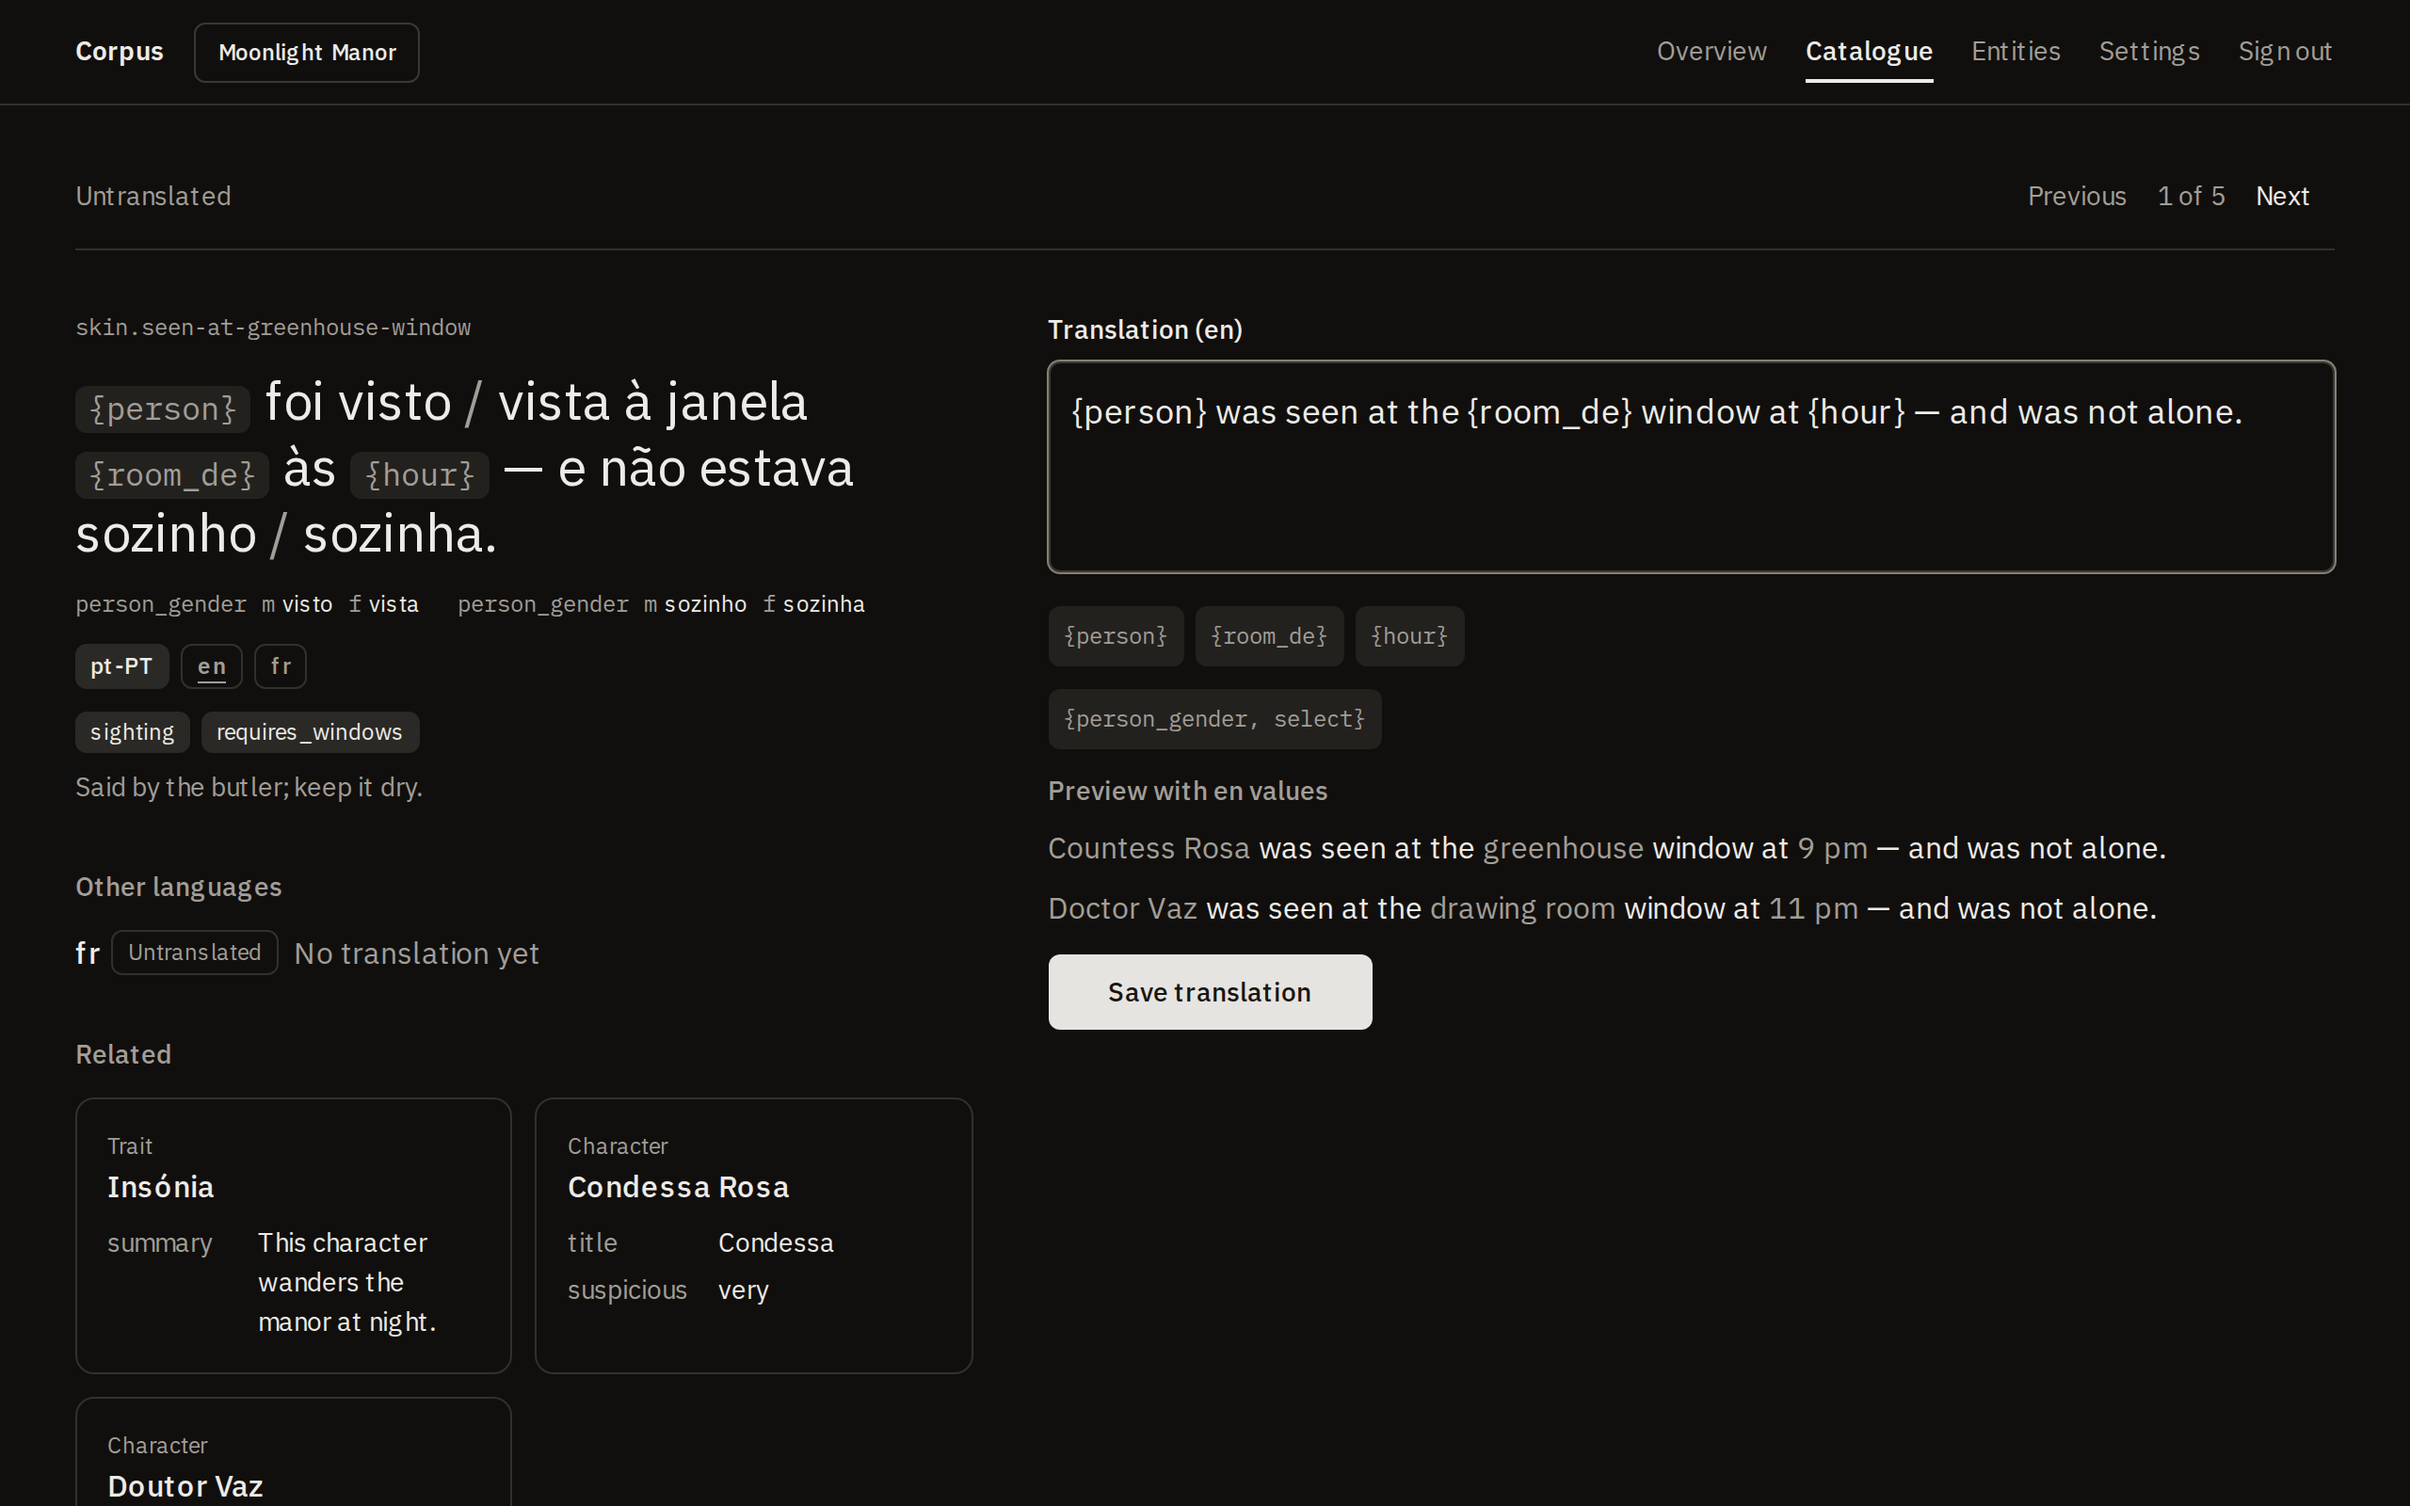
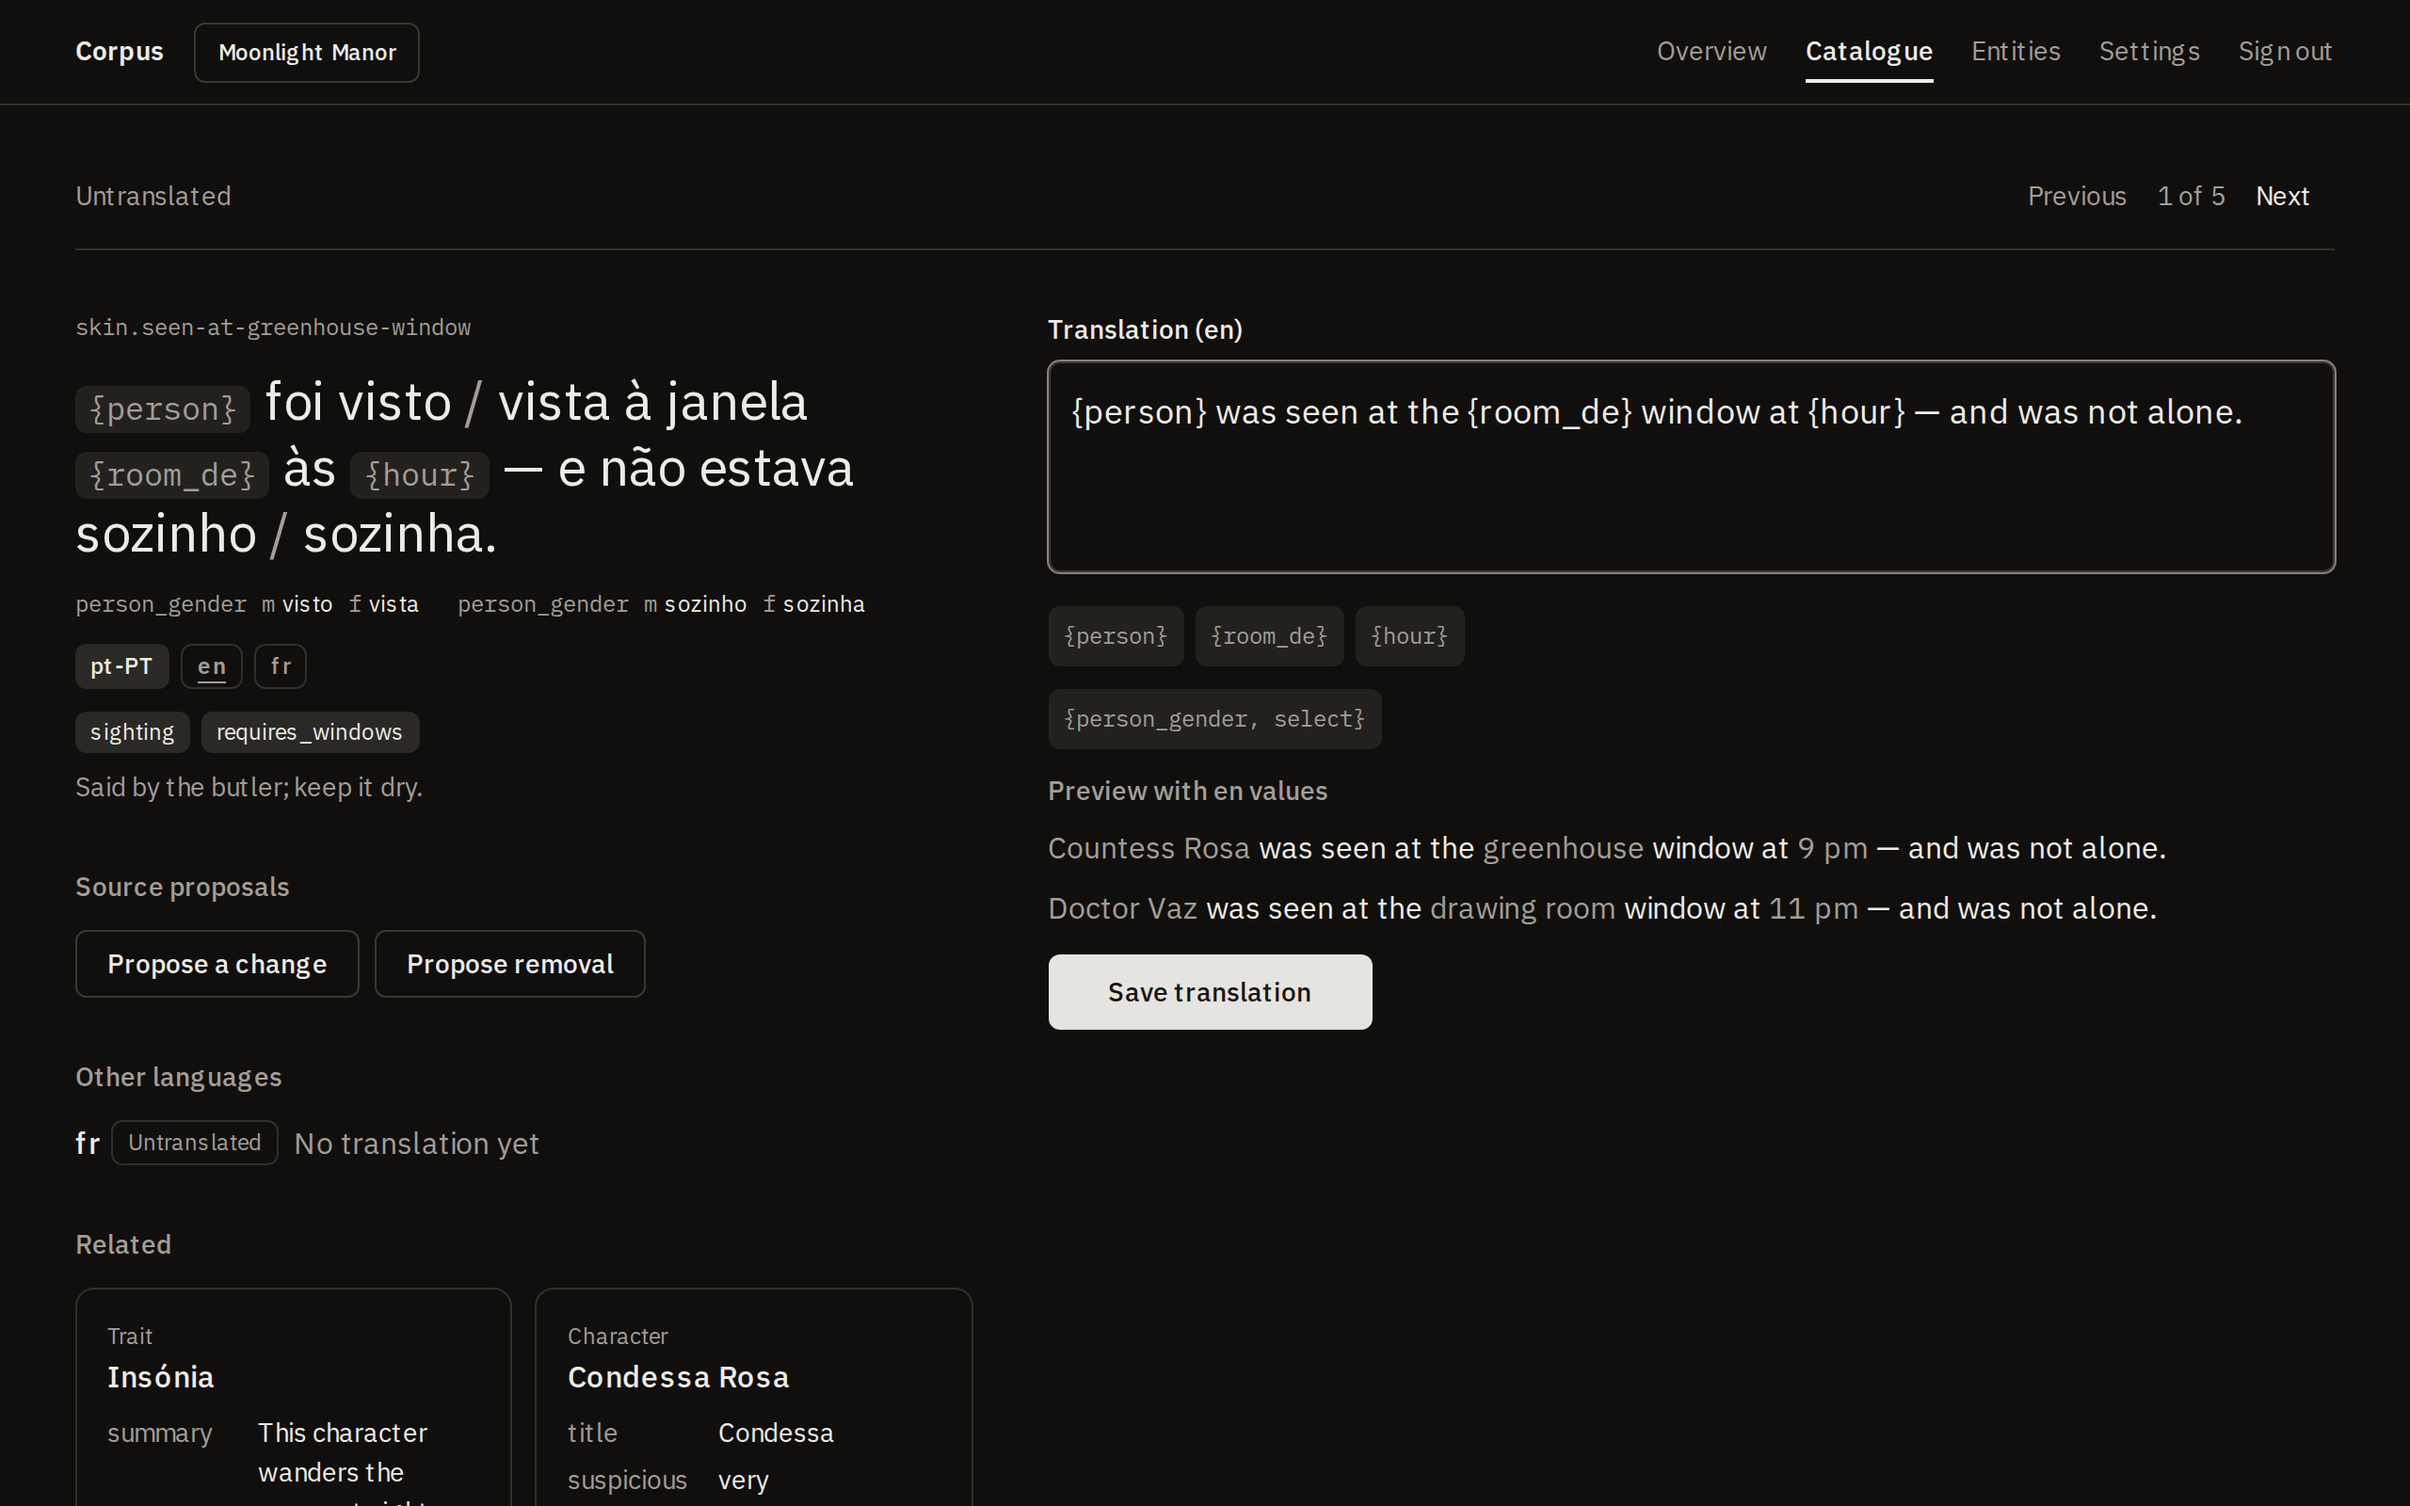
M11 s6: README on managing strings, screenshots with a proposal, 0.7.0
The README says what proposals are and how they reach the repository;
the screenshot fixture proposes a change on a chrome string and
captures the string page with it pending and the add form; CHANGELOG
0.7.0; both packages and the lockfile bumped.

diff --git a/apps/web/e2e/screenshots.ts b/apps/web/e2e/screenshots.ts
@@ -179,6 +179,19 @@ async function main(): Promise<void> {
   await shot("editor");
   await page.goto(`${corpus}/settings`, { waitUntil: "networkidle" });
   await shot("settings");
+  // A source proposal (§9.3, §11): propose a change on a chrome string,
+  // then capture the string page with it pending, and the add form.
+  await page.goto(chromeString("queue.stale", "language=pt-PT"));
+  await page.getByRole("button", { name: "Propose a change" }).click();
+  await page.getByLabel("Proposed source text").fill("Out of date");
+  await page.getByRole("button", { name: "Propose", exact: true }).click();
+  await page.waitForURL(/proposed=1/);
+  await page.goto(chromeString("queue.stale", "language=pt-PT"), {
+    waitUntil: "networkidle",
+  });
+  await shot("proposal");
+  await page.goto(`${corpus}/strings/new`, { waitUntil: "networkidle" });
+  await shot("new-string");
 
   // Structured text: the Moonlight Manor fixture, for selects, entities,
   // and previews the chrome catalog does not have.

diff --git a/CHANGELOG.md b/CHANGELOG.md
@@ -7,6 +7,17 @@ contract (`corpus/1`) is the only one.
 
 ## [Unreleased]
 
+## [0.7.0] - 2026-09-15
+
+Corpus proposes source strings.
+
+### Added
+
+- Anyone on the instance may propose a change to a string's source text, its removal, or a new string into a catalogue chosen among the sources push declared (§9, §11). A proposal is pending until `corpus pull` writes it into the source file and the next `corpus push` sees the repository agreeing; a push that moved on, or archived the string, marks it superseded. One proposal per string or key; a newer one replaces the older, and every outcome reads in the string's history.
+- `corpus pull` writes pending proposals into the source-language files through the adapters, format preserved, and removes a deleted key from the source's target files too; `--check` counts them; `corpus status` shows the pending count. A pull with no pending proposals never writes a source file.
+- The snapshot carries each entry's `file` and the writable `sources`; the pull payload carries `sourceChanges`. All optional; the contract stays `corpus/1`.
+- Strings from `exec` sources, or from `.ts`/`.js` catalogues pull cannot write, refuse proposals with a reason.
+
 ## [0.6.0] - 2026-09-07
 
 The editor speaks the target language.
@@ -108,7 +119,8 @@ The first published version.
 - The `messages`, `table` and `exec` adapters, and the `corpus/1` snapshot contract with its ICU subset (placeholders and `select`).
 - The package ships plain JavaScript for Node 22 with type declarations; a client's config imports `defineCorpus` from `@corpus-tool/cli`.
 
-[Unreleased]: https://github.com/miguelaguiar01/corpus/compare/v0.6.0...HEAD
+[Unreleased]: https://github.com/miguelaguiar01/corpus/compare/v0.7.0...HEAD
+[0.7.0]: https://github.com/miguelaguiar01/corpus/releases/tag/v0.7.0
 [0.6.0]: https://github.com/miguelaguiar01/corpus/releases/tag/v0.6.0
 [0.5.0]: https://github.com/miguelaguiar01/corpus/releases/tag/v0.5.0
 [0.4.1]: https://github.com/miguelaguiar01/corpus/releases/tag/v0.4.1

diff --git a/README.md b/README.md
@@ -113,6 +113,14 @@ npx corpus check                      # lint: user-facing literals outside decla
 
 Structured sources, `table` records (a module's default or named export, with the fields to carry as metadata listed in the map) or an `exec` command that emits entries, are described in the [design spec, §3](docs/corpus-design.md). Note that `corpus push` and `corpus pull` run the repository's own `corpus.config.ts` and any `exec` commands it declares, so run them only in repositories you trust, as you would their build scripts.
 
+## Manage the strings, not only their translations
+
+The catalogue is the inventory, and anyone on the instance can propose a change to it: a new source text on a string's page, a string's removal, or a new string into one of the repository's catalogues, chosen from the sources `corpus push` declared. A proposal is pending until `corpus pull` writes it into the source file, you review the diff and merge, and the next `corpus push` sees the repository agreeing and marks it applied. The repository stays the truth once merged; Corpus proposes. `corpus status` counts what is pending, and `corpus pull --check` treats a pending proposal as a change to pull, so a CI gate goes red until it is in.
+
+<p align="center">
+    <img src="docs/screenshots/proposal-desktop-light.png" width="960" alt="A string page with a proposed change to its source text: the proposal's text and author under the source, a withdraw button, and the history of proposals below.">
+</p>
+
 ## In CI
 
 Nothing here needs a browser. A job with `CORPUS_TOKEN` in its environment can gate a merge on the translation state:
